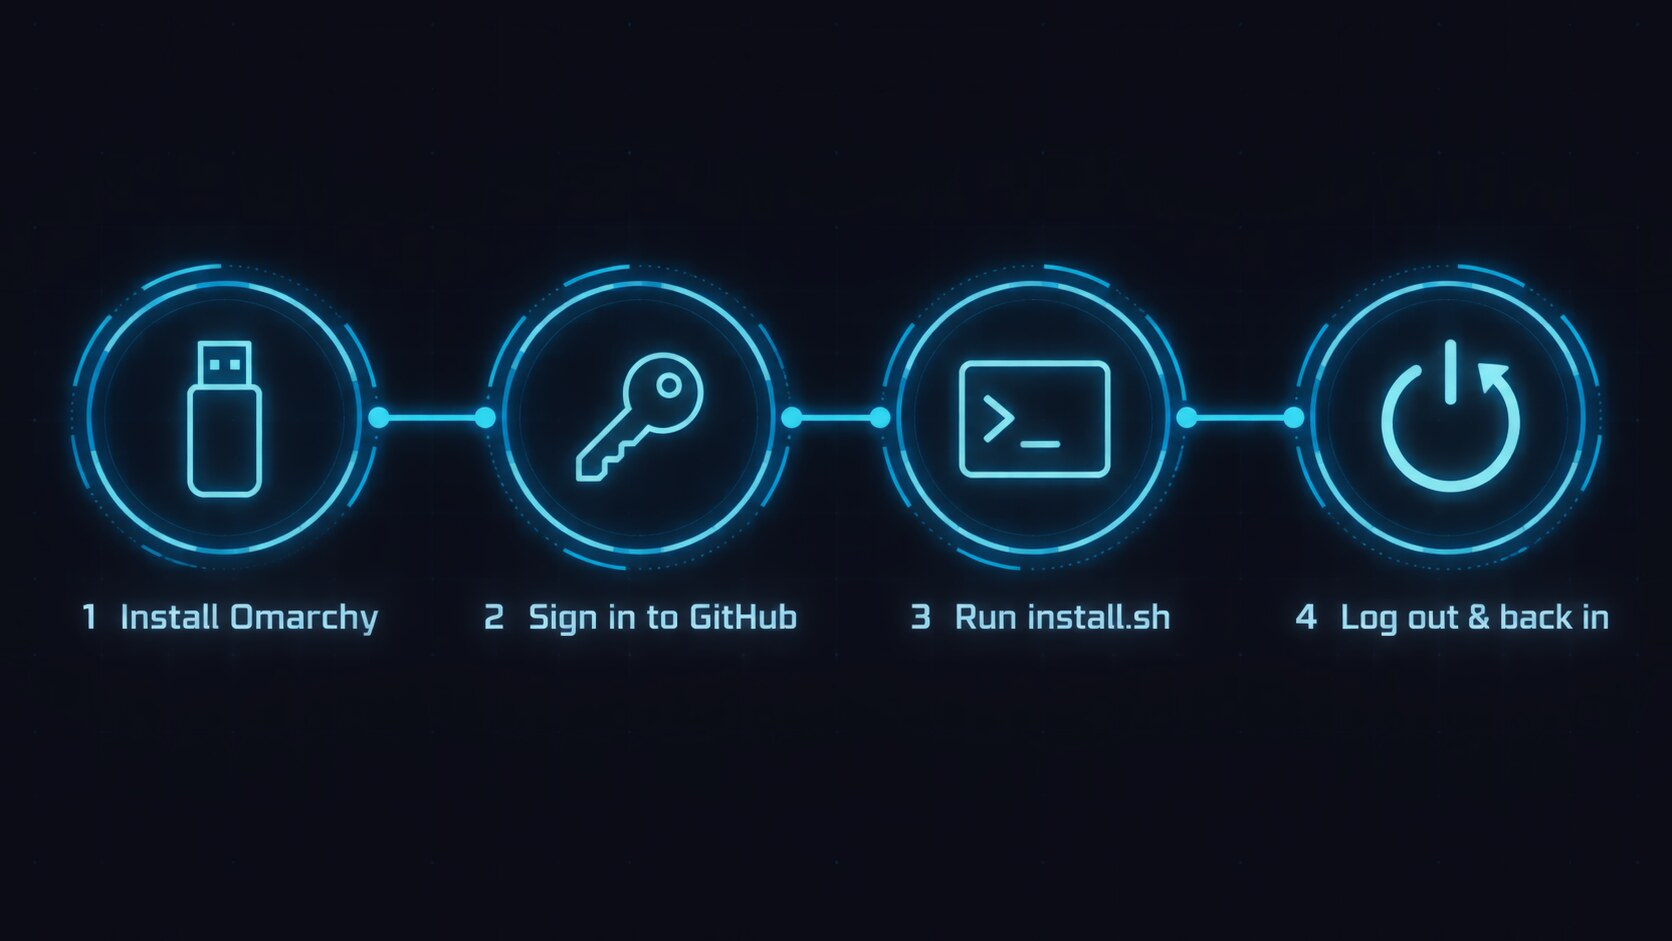
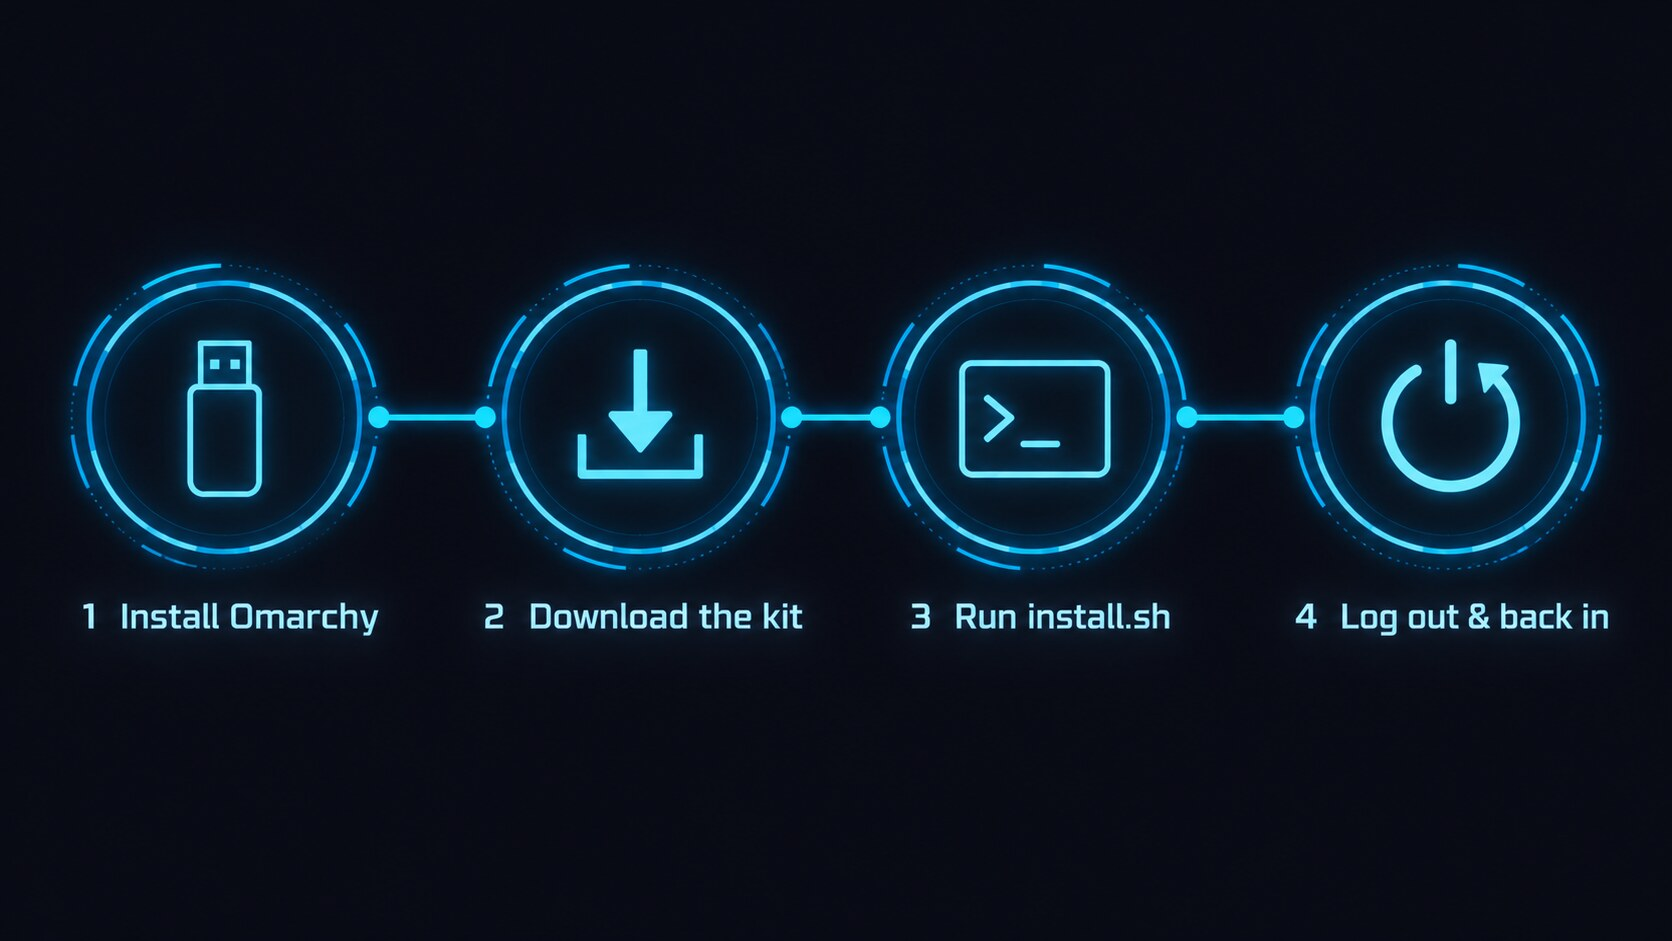
v1.2.2: Public kit, simpler install

diff --git a/README.md b/README.md
@@ -13,7 +13,7 @@ Steve's complete **A.T.L.A.S** desktop look and tools, packed so they can be put
 
 ### The whole install at a glance
 
-![Install steps: 1 Install Omarchy, 2 Sign in to GitHub, 3 Run install.sh, 4 Log out and back in](docs/images/install-steps.jpg)
+![Install steps: 1 Install Omarchy, 2 Download the kit, 3 Run install.sh, 4 Log out and back in](docs/images/install-steps.jpg)
 
 ---
 
@@ -39,7 +39,6 @@ You'll need:
 - ✅ The **Alienware**, with its **empty spare drive** installed
 - ✅ A **USB stick** (8 GB or more; it gets erased)
 - ✅ Internet (Wi-Fi or cable)
-- ✅ Your **GitHub** login
 
 ### ⚠ Do these first, in Windows
 
@@ -116,23 +115,16 @@ omarchy update
 
 ## 4. Install the A.T.L.A.S kit
 
-### 4.1 Get the tools and sign in to GitHub
+### 4.1 Download the kit
+
+The kit is public, so no GitHub login is needed:
 
 ```bash
-omarchy pkg add github-cli rsync
-gh auth login
+omarchy pkg add rsync                                                  # used by the installer
+git clone https://github.com/Steve-Plancher/atlas-kit.git ~/atlas-kit
 ```
 
-For `gh auth login` choose: **GitHub.com → HTTPS → Yes → Login with a web browser**, then
-enter the code it shows in the browser.
-
-### 4.2 Download the kit
-
-```bash
-gh repo clone Steve-Plancher/atlas-kit ~/atlas-kit
-```
-
-### 4.3 Run the installer
+### 4.2 Run the installer
 
 ```bash
 ~/atlas-kit/install.sh
@@ -151,7 +143,7 @@ What it does, in order:
 
 > 💡 Only want the look, without the extra apps? Run `~/atlas-kit/install.sh --no-apps`
 
-### 4.4 Log out and back in
+### 4.3 Log out and back in
 
 Press **Super + Escape → Logout** (or reboot), so every app picks up the new cursor and colors.
 

diff --git a/CHANGELOG.md b/CHANGELOG.md
@@ -1,5 +1,19 @@
 # A.T.L.A.S OS changelog
 
+## v1.2.2: Public kit, simpler install (2026-10-08)
+
+### 🔧 Changed
+- **The kit is now public:** installing no longer needs a GitHub login. Step 4.1 is just
+  `git clone https://github.com/Steve-Plancher/atlas-kit.git ~/atlas-kit` (the GitHub sign-in steps were removed).
+- Install-steps illustration updated: step 2 is now "Download the kit".
+- `atlas-version --check` checks for new releases without needing a GitHub login.
+
+### 📦 Apps added
+- None.
+
+### 🔒 Not included
+Personal files, passwords, logins, browser data, SSH keys. Full-history review before going public: no secrets found.
+
 ## v1.2.1: Version tracking (2026-10-08)
 
 ### ✨ New features
